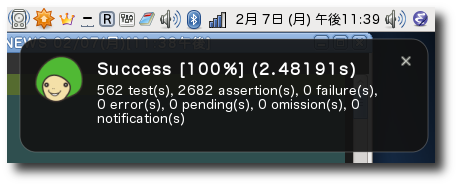
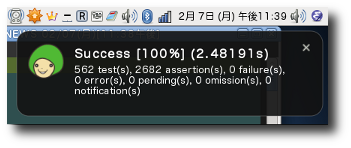
* html/: use screenshot in HTML.
git-svn-id: https://cutter.svn.sourceforge.net/svnroot/cutter/cutter/trunk@3922 10a583ed-1e3d-0410-b285-c80daaaae891

diff --git a/html/index.html b/html/index.html
@@ -42,9 +42,10 @@
 	</p>
 
         <h2 id="about">Cutter?</h2>
-	<p>
-          <img class="eye-catch" alt="screenshot" src="notify-on-gnome.png" />
-	</p>
+        <div class="eye-catch">
+          <img alt="notification on GNOME" src="notify-on-gnome.png" />
+          <img alt="notification on Mac OS X" src="notify-on-mac-os-x.png" />
+        </div>
 	<p>
 	  Cutter is a Unit Testing Framework for C and C++.
 	  Cutter's interface is easy to write, easy to debug your code and fun to run tests. (See the screenshot. You need "notify-send" command on Linux and *BSD or "growlnotify" command on Mac OS X for this feature.)

diff --git a/html/cutter.css b/html/cutter.css
@@ -17,9 +17,14 @@ a:visited
   color: #5c6e00;
 }
 
-img.eye-catch
+div.eye-catch
 {
   float: right;
+}
+
+div.eye-catch img
+{
+  display: block;
 }
 
 div.header
